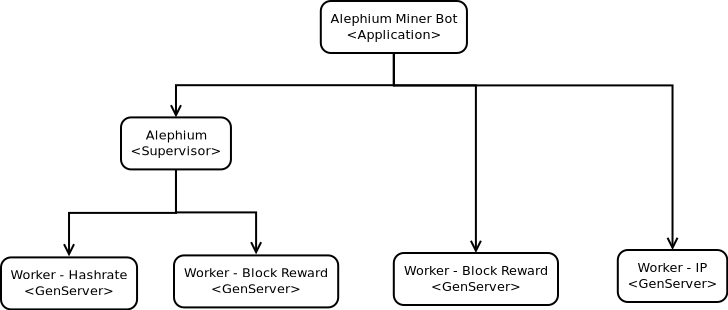
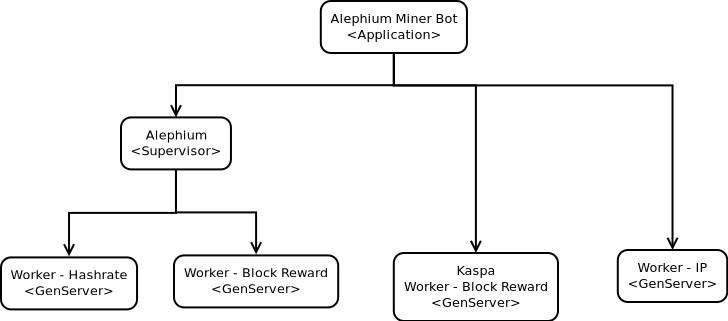
update readme

diff --git a/README.md b/README.md
@@ -41,6 +41,7 @@ WORKER_HASHRATE_INTERVAL=1800000 \
 WORKER_IP_INTERVAL=60000 \
 TELEGRAM_BOT_TOKEN=cf5062725e62d2096228cd6f7ab0f2a0 \
 TELEGRAM_CHAT_ID=cf5062725e62d2096228cd6f7ab0f2a0 \
+KASPA_WALLET_PATH=/opt/kaspa/bin/kaspawallet \
 _build/prod/rel/alephium_miner_bot/bin/alephium_miner_bot start
 ```
 
@@ -54,7 +55,7 @@ To execute the release, it's important to provide the following parameters:
 - `WORKER_IP_INTERVAL`: interval in microsecond that fetching IP
 - `TELEGRAM_BOT_TOKEN`: self-explained
 - `TELEGRAM_CHAT_ID`: self-explained
-
+- `KASPA_WALLET_PATH`: path to kaspa wallet executable file
 
 Finally, make the file `release-run.sh` executable and run it
 ```sh
